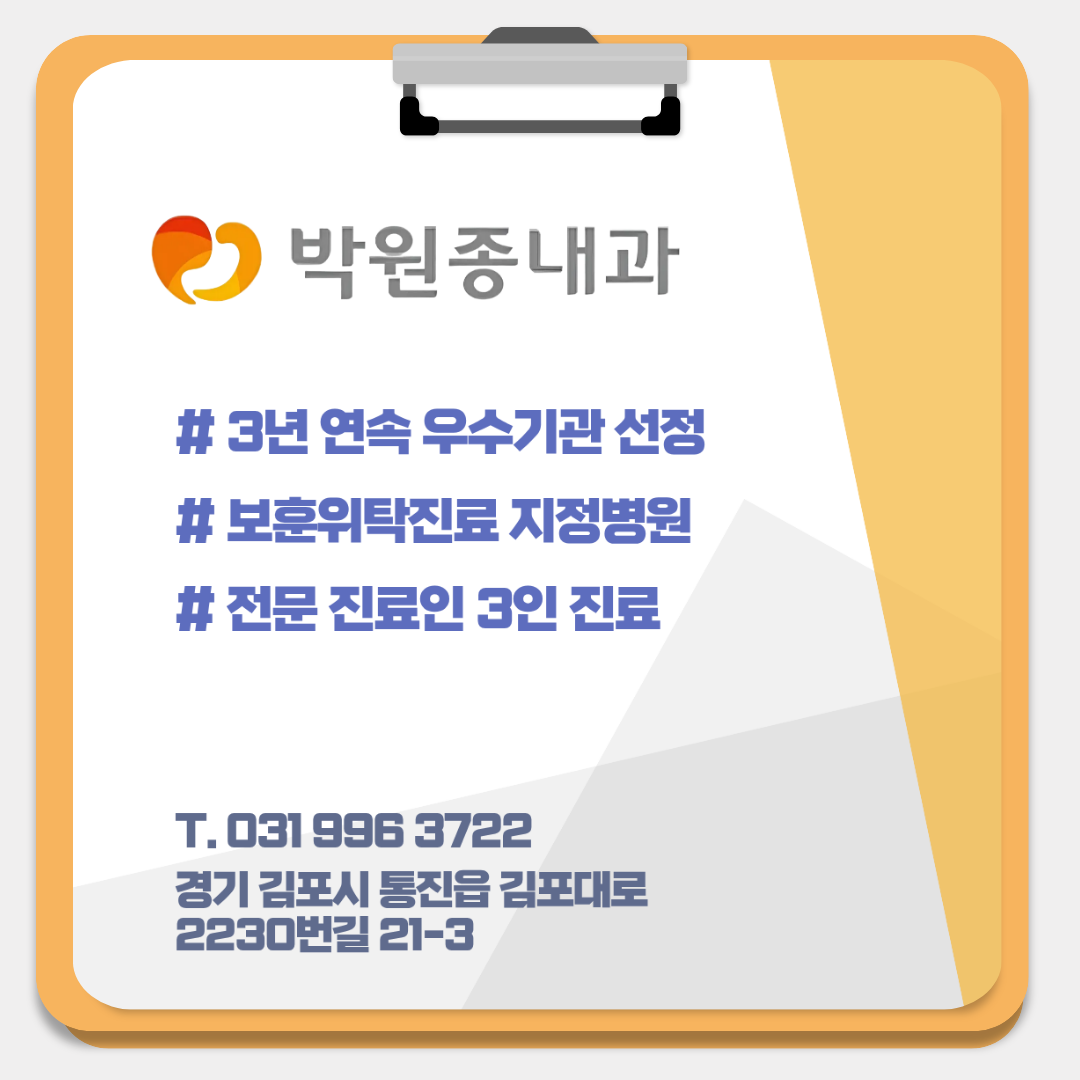
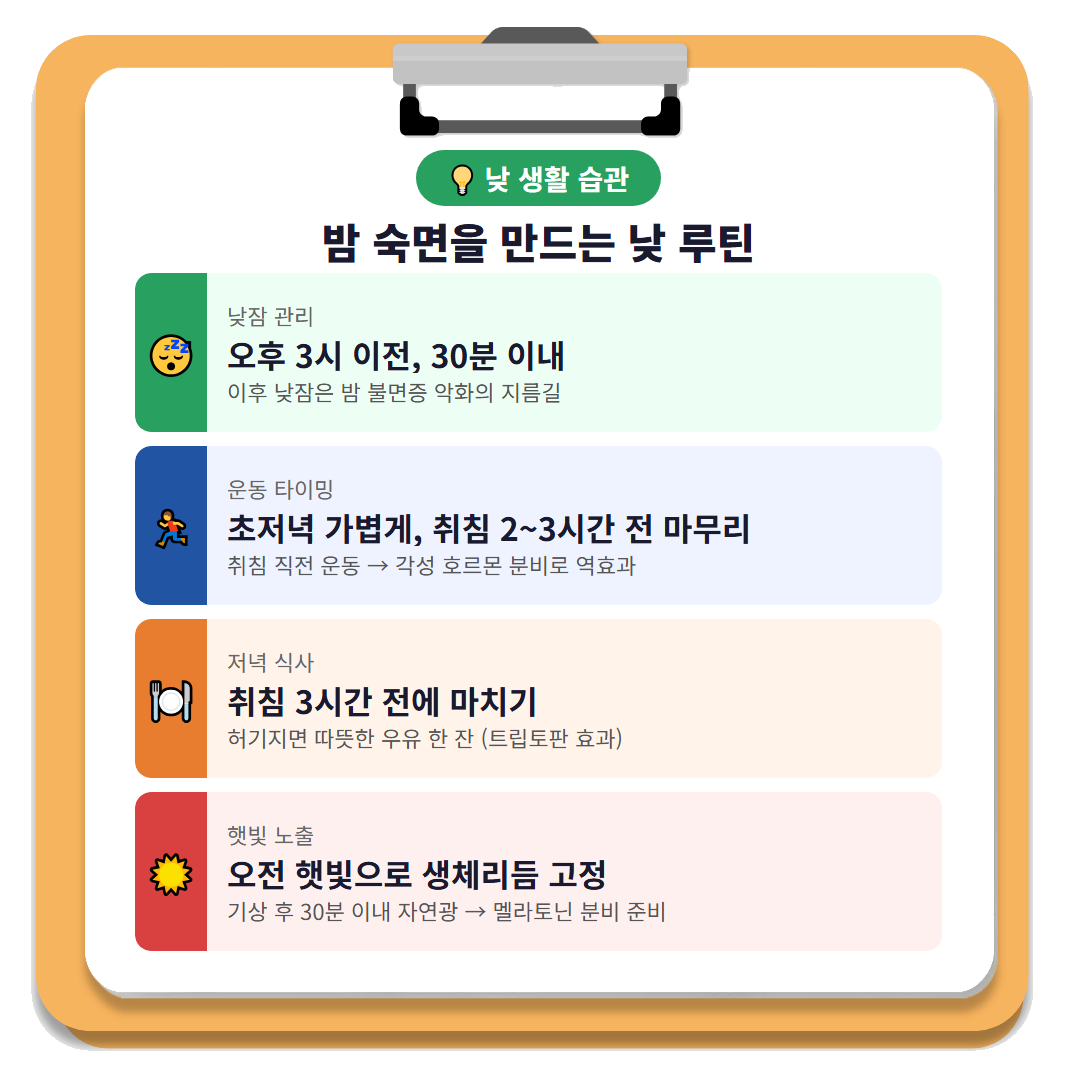
여름철수면건강: body-4 낮 생활 습관 체크리스트 인포그래픽 추가
기존 body-4.png는 4.png 클리닉 카드 복사본이었음.
draft.md 4번 섹션('낮 동안의 생활 습관')에 맞는 전용 인포그래픽 제작.
  - 낮잠(오후 3시 이전 30분), 운동 타이밍, 저녁 식사, 햇빛 노출 4항목
  - 4.png 클리닉 카드는 body-5.png로 이동

diff --git a/blog/output/여름철수면건강/tmp_html/body-4.html b/blog/output/여름철수면건강/tmp_html/body-4.html
@@ -1,0 +1,139 @@
+<!DOCTYPE html>
+<html lang="ko">
+<head>
+<meta charset="UTF-8">
+<style>
+  @import url('https://fonts.googleapis.com/css2?family=Noto+Sans+KR:wght@400;700;900&display=swap');
+  *, *::before, *::after { box-sizing: border-box; }
+  body { margin:0; padding:0; background:white;
+         font-family:'Noto Sans KR','Malgun Gothic',sans-serif; }
+
+  .clipboard-frame { width:1080px; background:white; }
+  .clip-wrapper     { display:none; }
+
+  /* inner-card: Grid 2행 — 제목(130px) + 체크리스트 */
+  .inner-card {
+    display: grid;
+    grid-template-rows: 130px 1fr;
+    height: 808px;
+    overflow: hidden;
+  }
+
+  /* ── 제목 ── */
+  .title-bar {
+    display:flex; flex-direction:column;
+    align-items:center; justify-content:center;
+    gap:10px;
+  }
+  .label {
+    background:#28A060; color:white;
+    font-size:28px; font-weight:700;
+    padding:8px 32px; border-radius:30px;
+  }
+  .title-bar h2 {
+    font-size:42px; font-weight:900;
+    color:#1a1a2e; margin:0; line-height:1.2;
+  }
+
+  /* ── 체크리스트: Grid 4행 ── */
+  .checklist {
+    display: grid;
+    grid-template-rows: 1fr 1fr 1fr 1fr;
+    gap: 14px;
+    overflow: hidden;
+  }
+
+  .item {
+    display: grid;
+    grid-template-columns: 72px 1fr;
+    align-items: center;
+    gap: 20px;
+    border-radius: 16px;
+    padding: 0 28px 0 0;
+    overflow: hidden;
+  }
+  .item-1 { background:#EDFFF5; }
+  .item-2 { background:#EEF3FF; }
+  .item-3 { background:#FFF3EA; }
+  .item-4 { background:#FFF0F0; }
+
+  .check-box {
+    width:72px; height:100%;
+    display:flex; align-items:center; justify-content:center;
+    border-radius:16px 0 0 16px;
+    font-size:38px; flex-shrink:0;
+  }
+  .item-1 .check-box { background:#28A060; }
+  .item-2 .check-box { background:#2155A3; }
+  .item-3 .check-box { background:#E87D30; }
+  .item-4 .check-box { background:#D94040; }
+
+  .item-content { min-width:0; overflow:hidden; }
+  .item-label {
+    font-size:22px; color:#666; margin-bottom:4px;
+    white-space:nowrap; overflow:hidden; text-overflow:ellipsis;
+  }
+  .item-main {
+    font-size:32px; font-weight:700; color:#1a1a2e;
+    line-height:1.2; margin-bottom:4px;
+    white-space:nowrap; overflow:hidden; text-overflow:ellipsis;
+  }
+  .item-note {
+    font-size:22px; color:#555; line-height:1.3;
+    white-space:nowrap; overflow:hidden; text-overflow:ellipsis;
+  }
+</style>
+</head>
+<body>
+<div class="clipboard-frame">
+  <div class="clip-wrapper"></div>
+  <div class="inner-card">
+
+    <div class="title-bar">
+      <span class="label">💡 낮 생활 습관</span>
+      <h2>밤 숙면을 만드는 낮 루틴</h2>
+    </div>
+
+    <div class="checklist">
+
+      <div class="item item-1">
+        <div class="check-box">😴</div>
+        <div class="item-content">
+          <div class="item-label">낮잠 관리</div>
+          <div class="item-main">오후 3시 이전, 30분 이내</div>
+          <div class="item-note">이후 낮잠은 밤 불면증 악화의 지름길</div>
+        </div>
+      </div>
+
+      <div class="item item-2">
+        <div class="check-box">🏃</div>
+        <div class="item-content">
+          <div class="item-label">운동 타이밍</div>
+          <div class="item-main">초저녁 가볍게, 취침 2~3시간 전 마무리</div>
+          <div class="item-note">취침 직전 운동 → 각성 호르몬 분비로 역효과</div>
+        </div>
+      </div>
+
+      <div class="item item-3">
+        <div class="check-box">🍽️</div>
+        <div class="item-content">
+          <div class="item-label">저녁 식사</div>
+          <div class="item-main">취침 3시간 전에 마치기</div>
+          <div class="item-note">허기지면 따뜻한 우유 한 잔 (트립토판 효과)</div>
+        </div>
+      </div>
+
+      <div class="item item-4">
+        <div class="check-box">☀️</div>
+        <div class="item-content">
+          <div class="item-label">햇빛 노출</div>
+          <div class="item-main">오전 햇빛으로 생체리듬 고정</div>
+          <div class="item-note">기상 후 30분 이내 자연광 → 멜라토닌 분비 준비</div>
+        </div>
+      </div>
+
+    </div>
+  </div>
+</div>
+</body>
+</html>